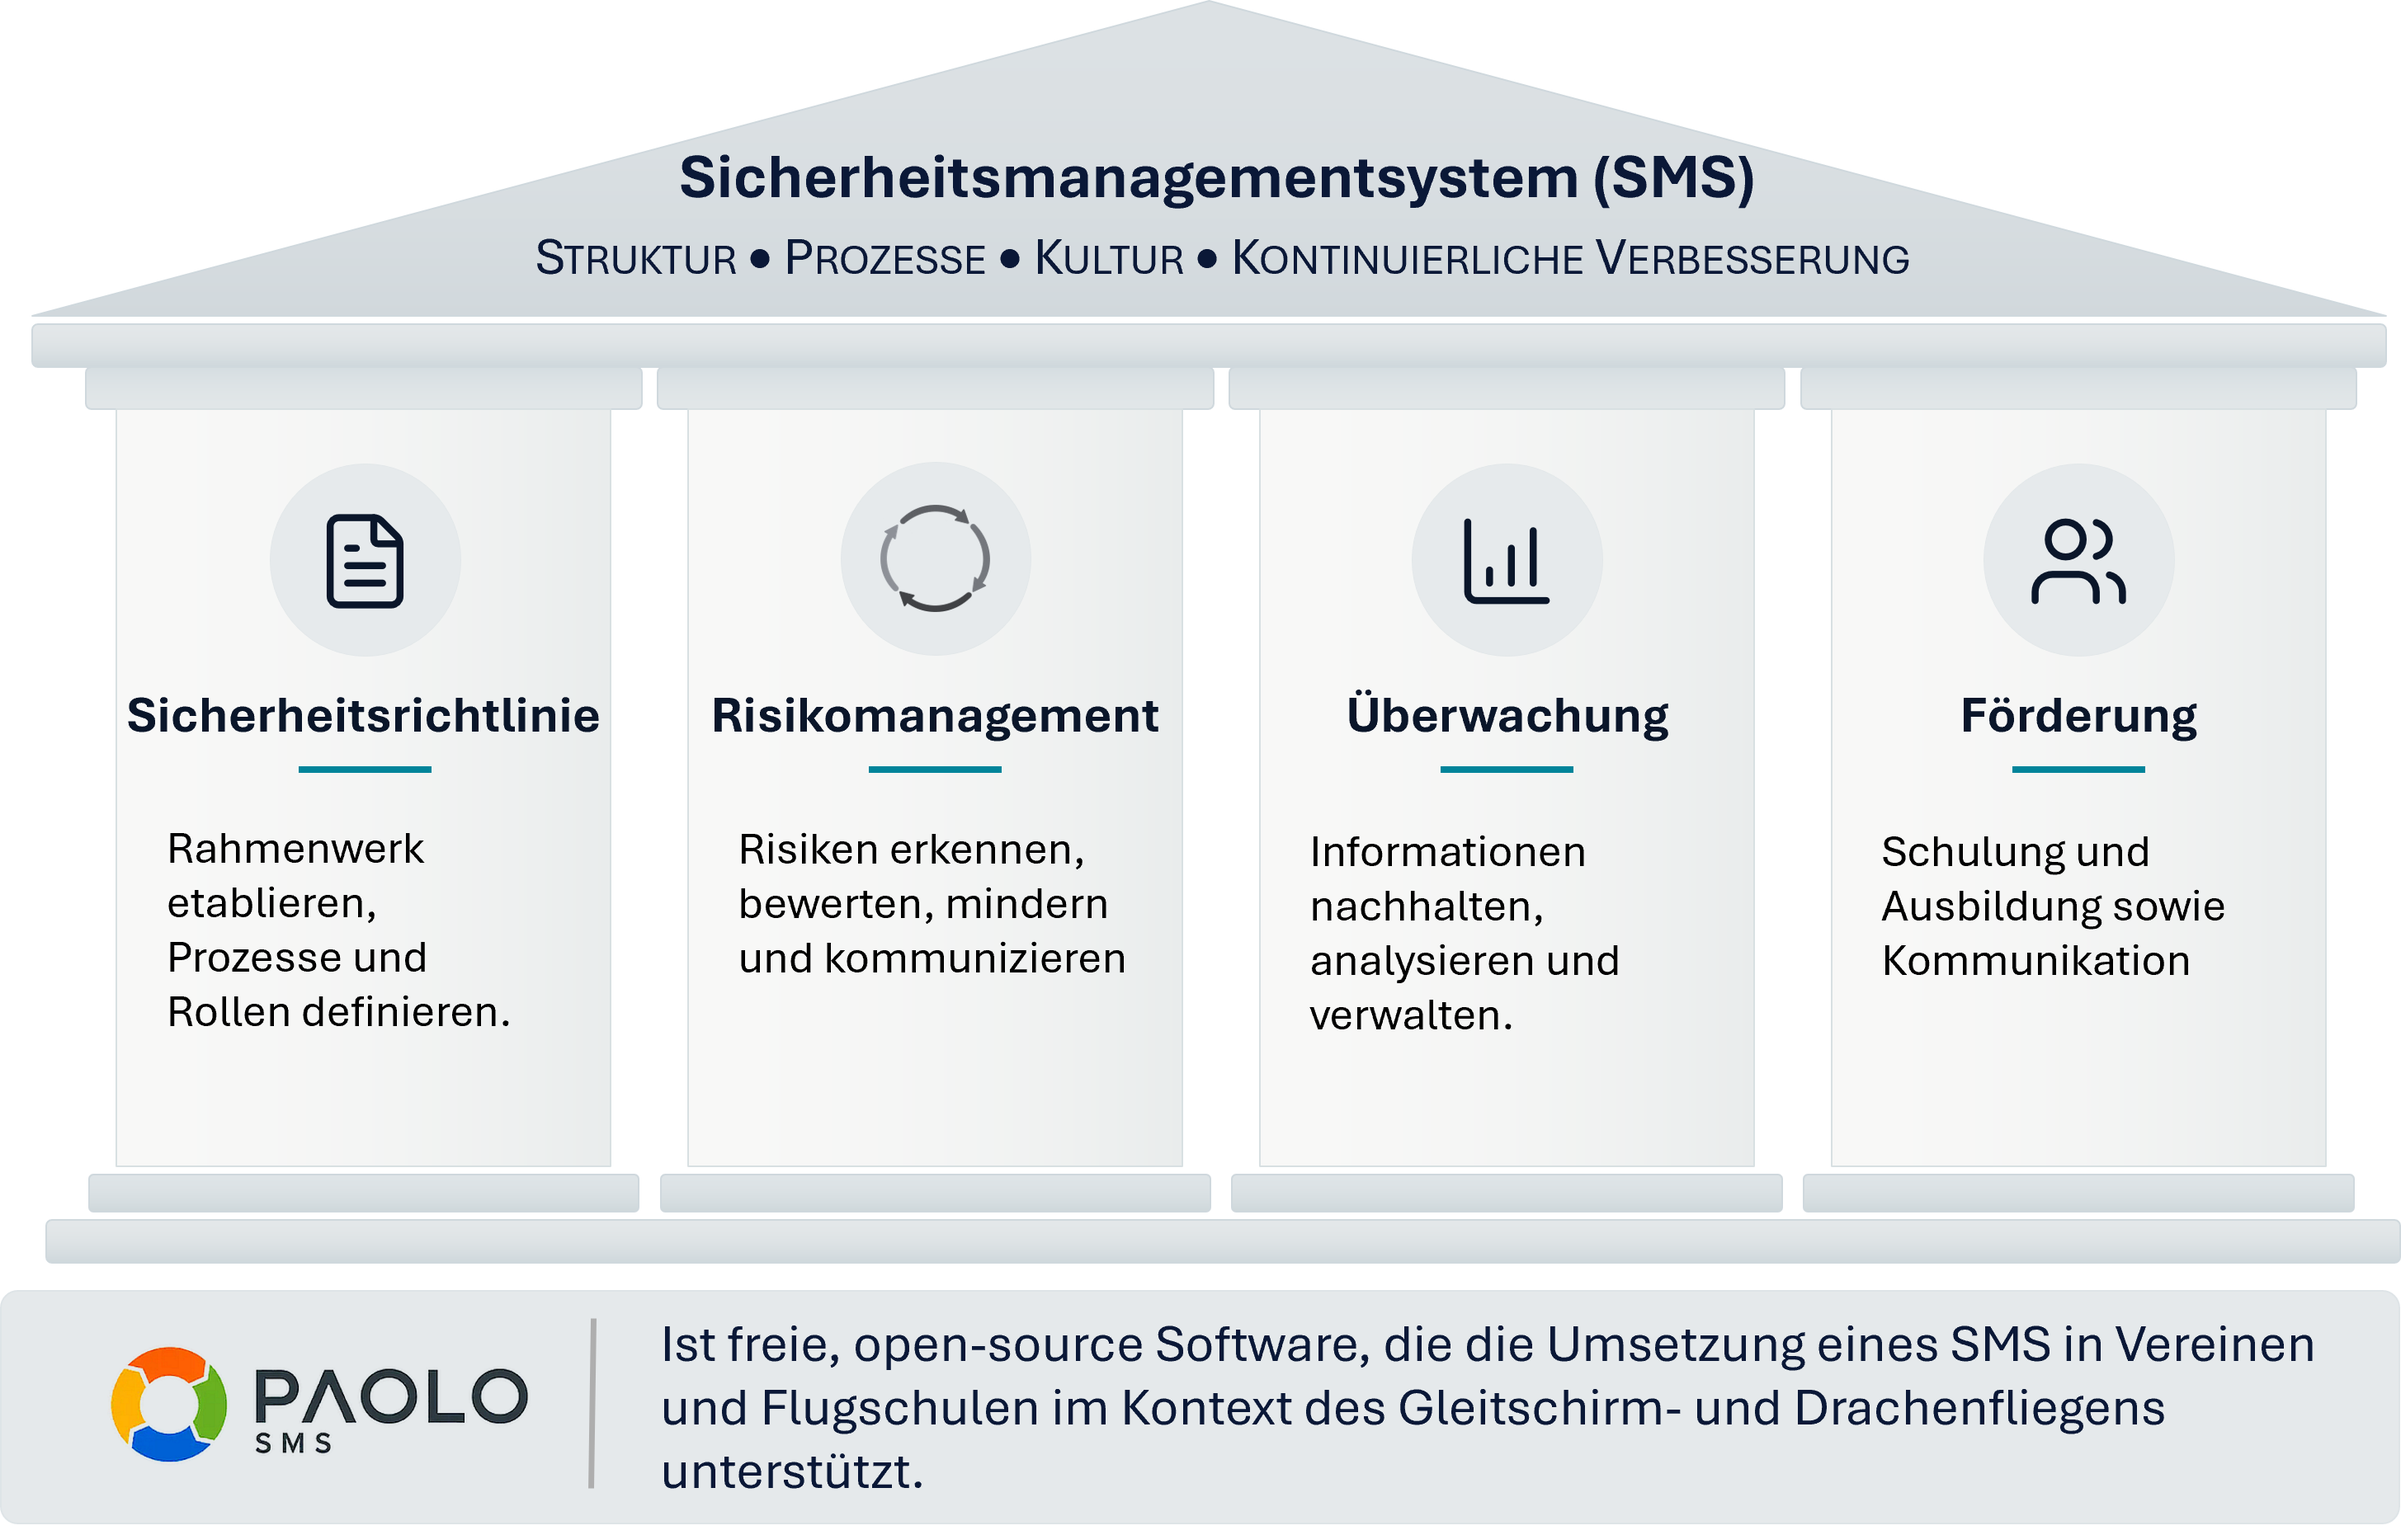
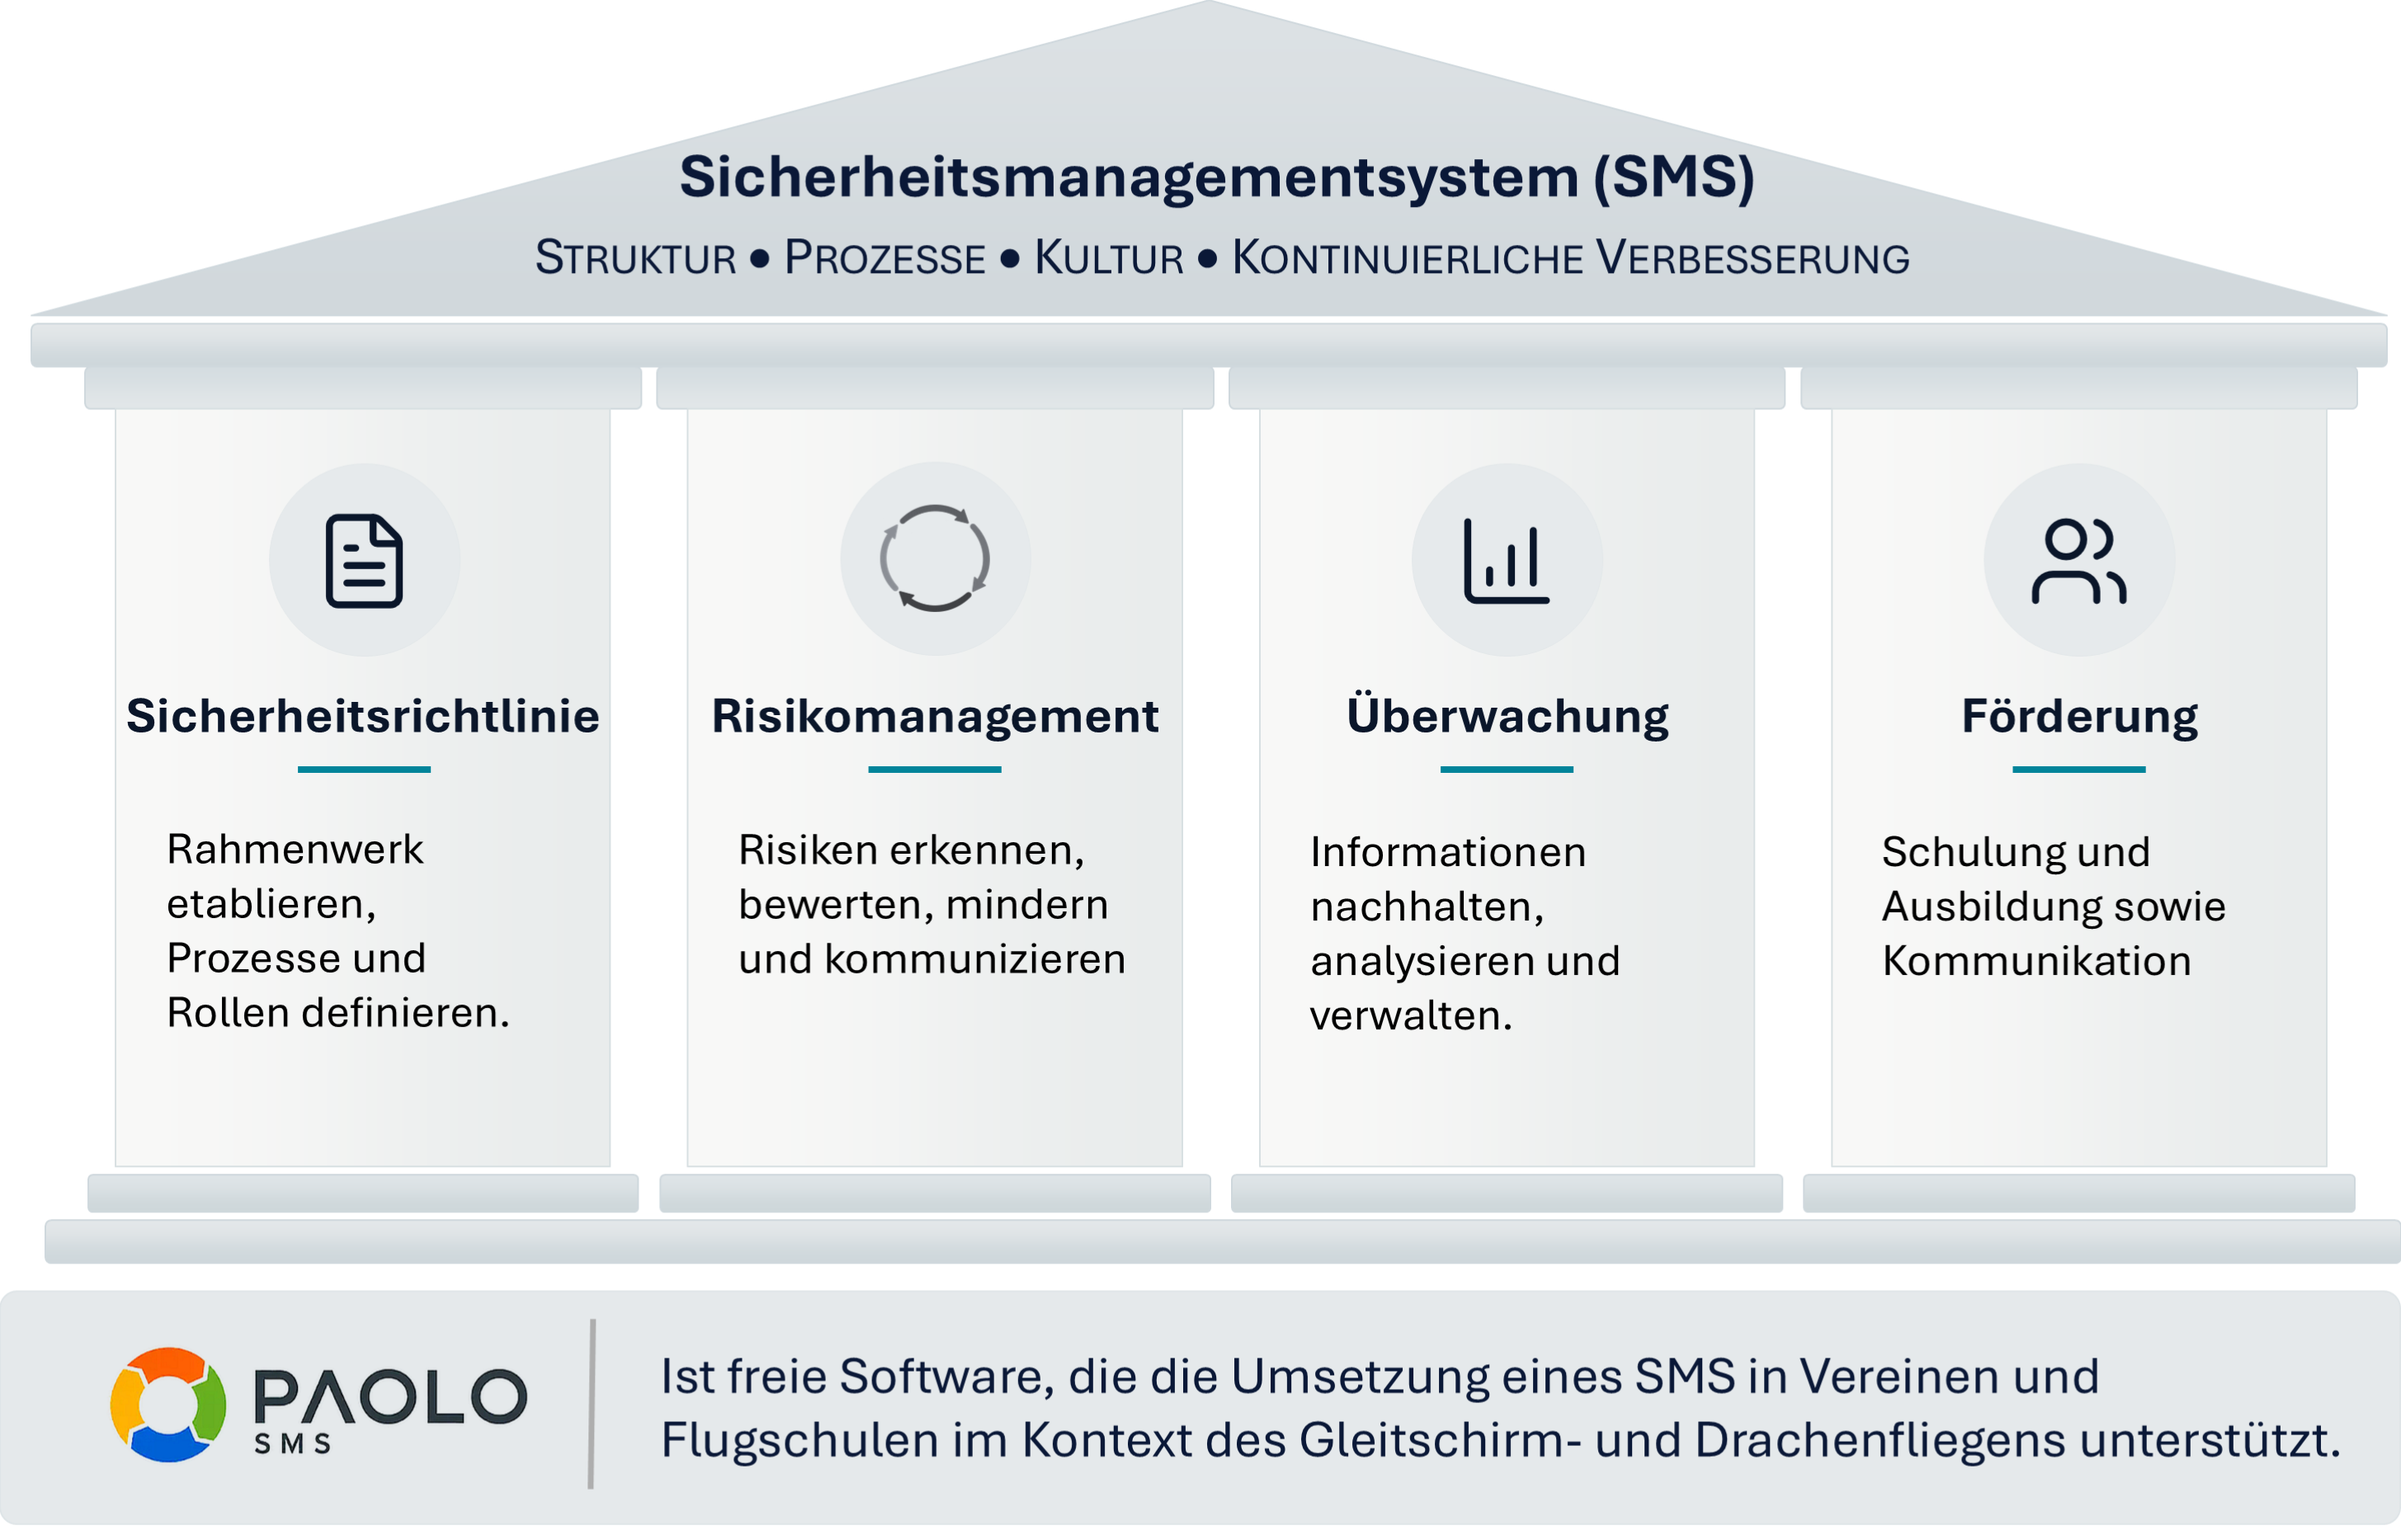
Saeulengrafik: Text im Band auf freie Software geaendert; BRAND.md und Hinweis angepasst

diff --git a/BRAND.md b/BRAND.md
@@ -28,8 +28,12 @@ Marke werden vor einer Produktivfreigabe abschließend geklärt.
 
 - **Freigabe:** Die Grafik `public/saeulen/sms-saeulen.png` ist am 24.10.2026
   vom Betreiber der Website, Peter Kreutz, als Bildmaterial für diese Website
-  freigegeben worden (Quelle: Folie 3 der PAOLO-SMS-Übersicht, Datei
-  „SMS-Säulen (2).png“).
+  freigegeben worden (Quelle: Folie 3 der PAOLO-SMS-Übersicht).
+- **Fassung:** Der Text im unteren Band lautet „Ist freie Software, …“. Die erste
+  Fassung sprach von „freier, open-source Software“; sie wurde ersetzt, weil der
+  Quellcode noch nicht öffentlich ist und die Website die Bezeichnung „Open Source“
+  bis dahin vermeidet (siehe „Mitmachen“). Gestaltung, Abmessungen und Logo sind
+  gleich geblieben.
 - **Logo in der Grafik:** Sie zeigt im unteren Band das PAOLO-SMS-Logo. Die Grafik
   wird unverändert als Ganzes eingebunden, nicht zerlegt und nicht als
   eigenständiges Logo verwendet.
@@ -37,6 +41,6 @@ Marke werden vor einer Produktivfreigabe abschließend geklärt.
   unverändert. Die Freigabe der Grafik erweitert sie nicht: Das Logo darf weiterhin
   nur als Original-Vektordatei und unverändert verwendet werden.
 - **Metadaten:** Die Datei enthält keine Text-, Autoren- oder Pfadmetadaten
-  (nur Farbprofil und Pixelmaße).
+  (nur Bilddaten).
 
 Weitere Bilder oder Logo-Varianten sind nicht freigegeben.
